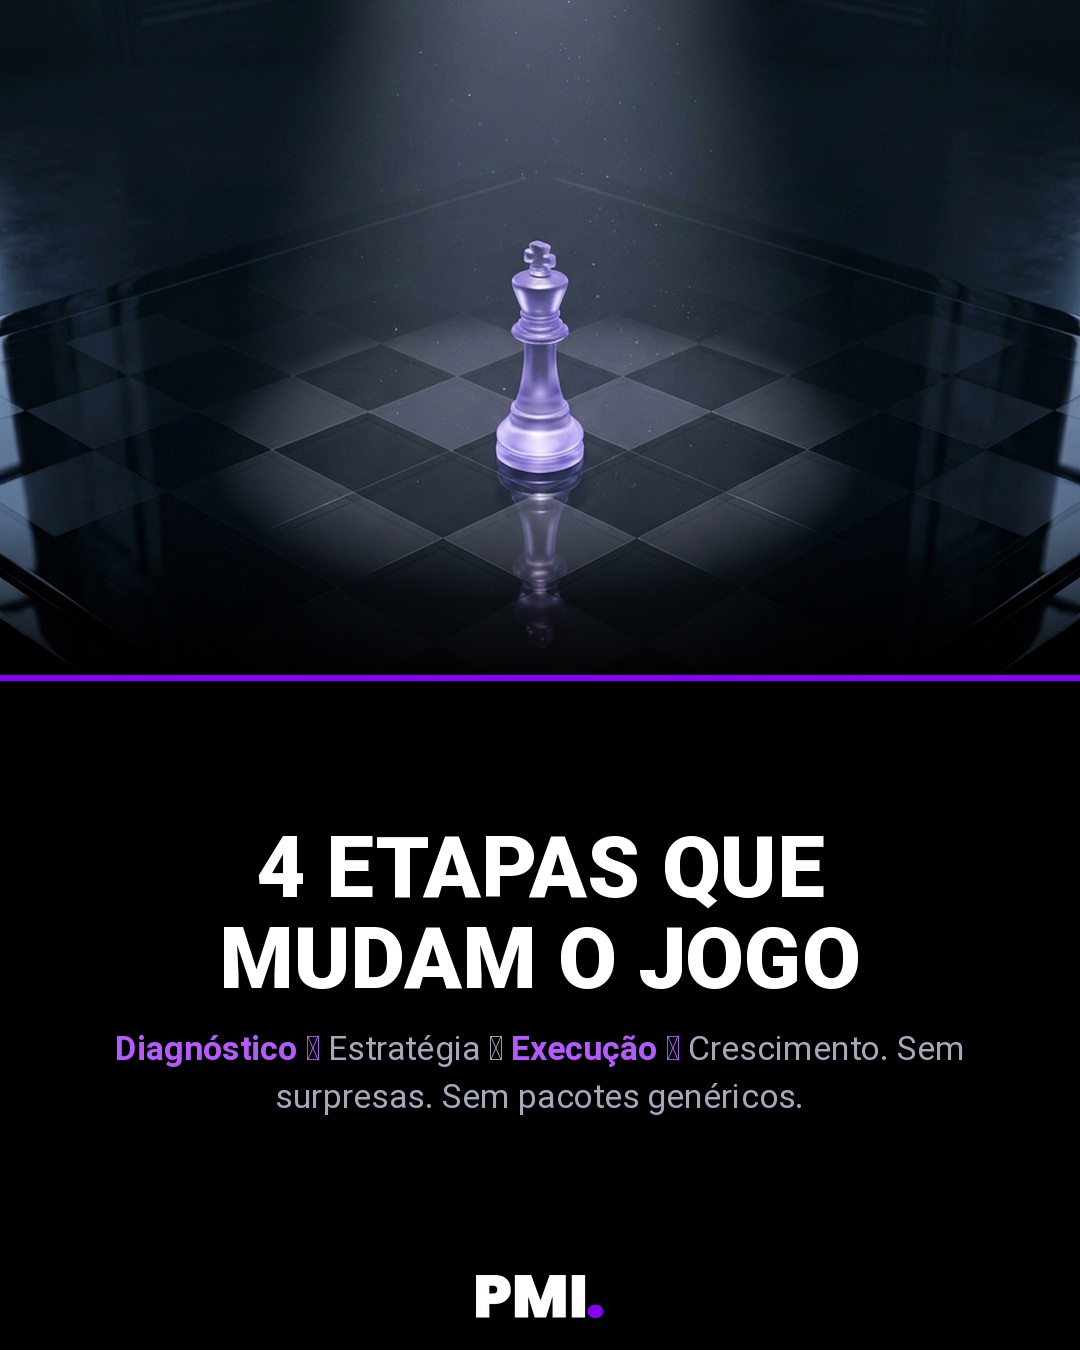
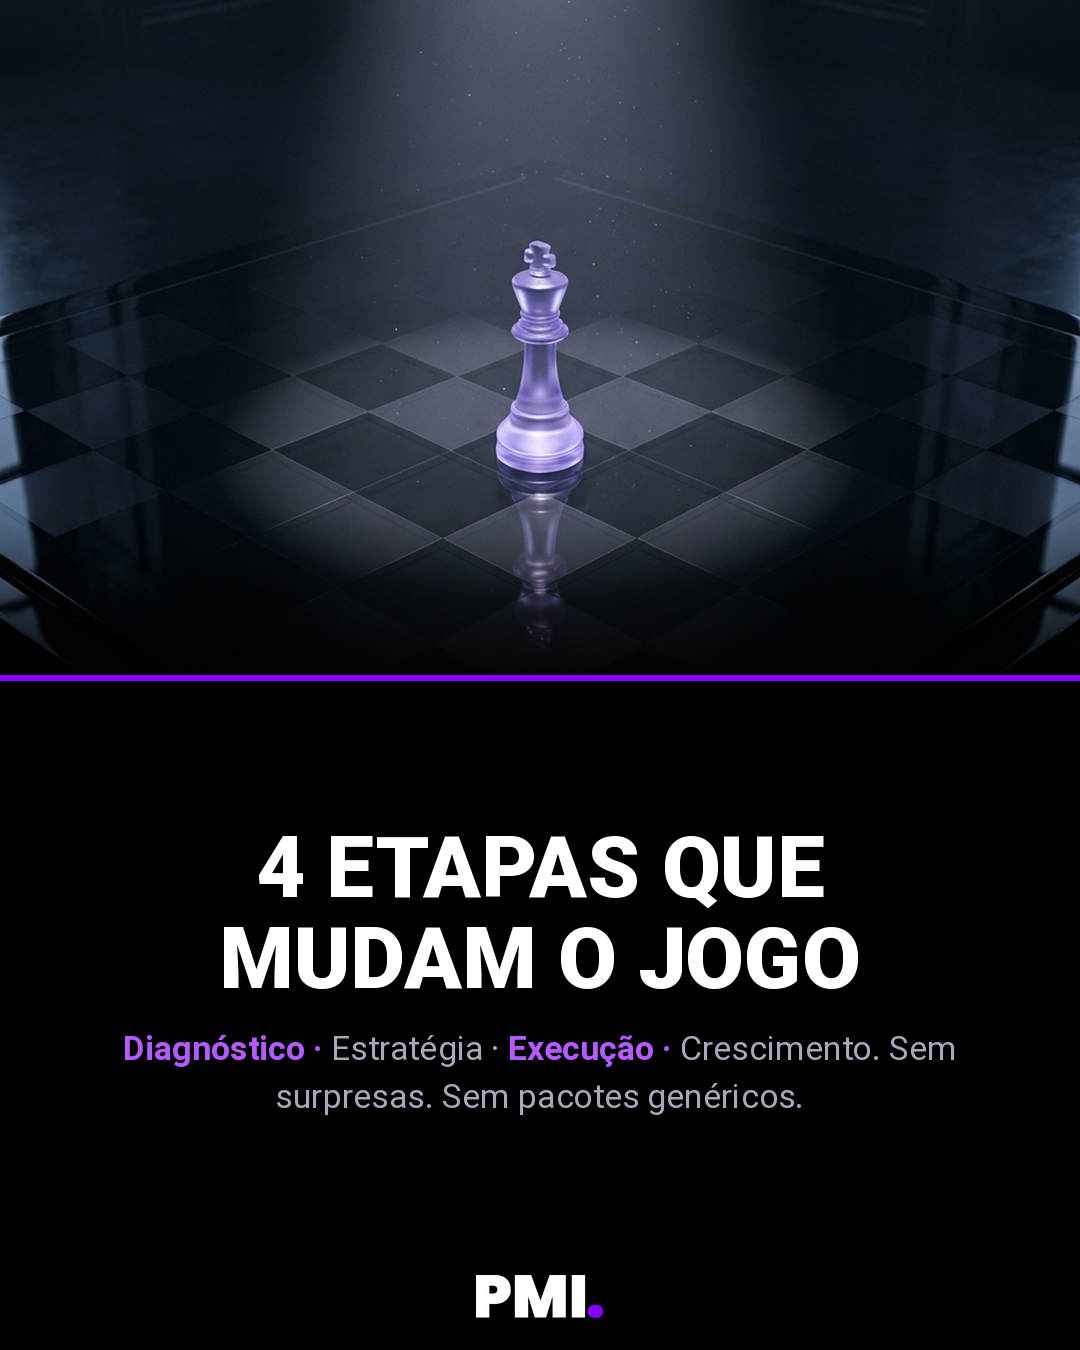
Fix slides 04 and 05: arrow glyph + cleaner CTA subtitle
https://claude.ai/code/session_01S8Fw6EGhnFoALdeAFfWcbf

Changed region(s): [[0.4583, 0.7467, 0.8861, 0.8089], [0.0917, 0.7467, 0.275, 0.8089], [0.3056, 0.7467, 0.4583, 0.8089]]

diff --git a/carrossel-pmi/build_slides.py b/carrossel-pmi/build_slides.py
@@ -262,9 +262,9 @@ make_slide(
     photo_path     = f"{PH}/photo_04.png",
     headline_lines = ["4 ETAPAS QUE", "MUDAM O JOGO"],
     subtitle_parts = [
-        ("Diagnóstico →", True),
-        ("Estratégia →", False),
-        ("Execução →", True),
+        ("Diagnóstico ·", True),
+        ("Estratégia ·", False),
+        ("Execução ·", True),
         ("Crescimento.", False),
         ("Sem surpresas. Sem pacotes genéricos.", False),
     ],
@@ -277,12 +277,11 @@ make_slide(
     photo_path     = f"{PH}/photo_05.png",
     headline_lines = ["PRONTO PARA", "ESCALAR DE", "VERDADE?"],
     subtitle_parts = [
-        ("A PMI faz um diagnóstico", False),
+        ("Diagnóstico", False),
         ("100% gratuito", True),
         ("do seu cenário.", False),
         ("Sem compromisso. Sem pitch.", False),
-        ("Comenta", True),
-        ("@perrymarketingintegrado", False),
+        ("Comenta abaixo.", True),
     ],
     out_path       = f"{OUT}/slide_05.png",
     photo_centering= (0.5, 0.25),